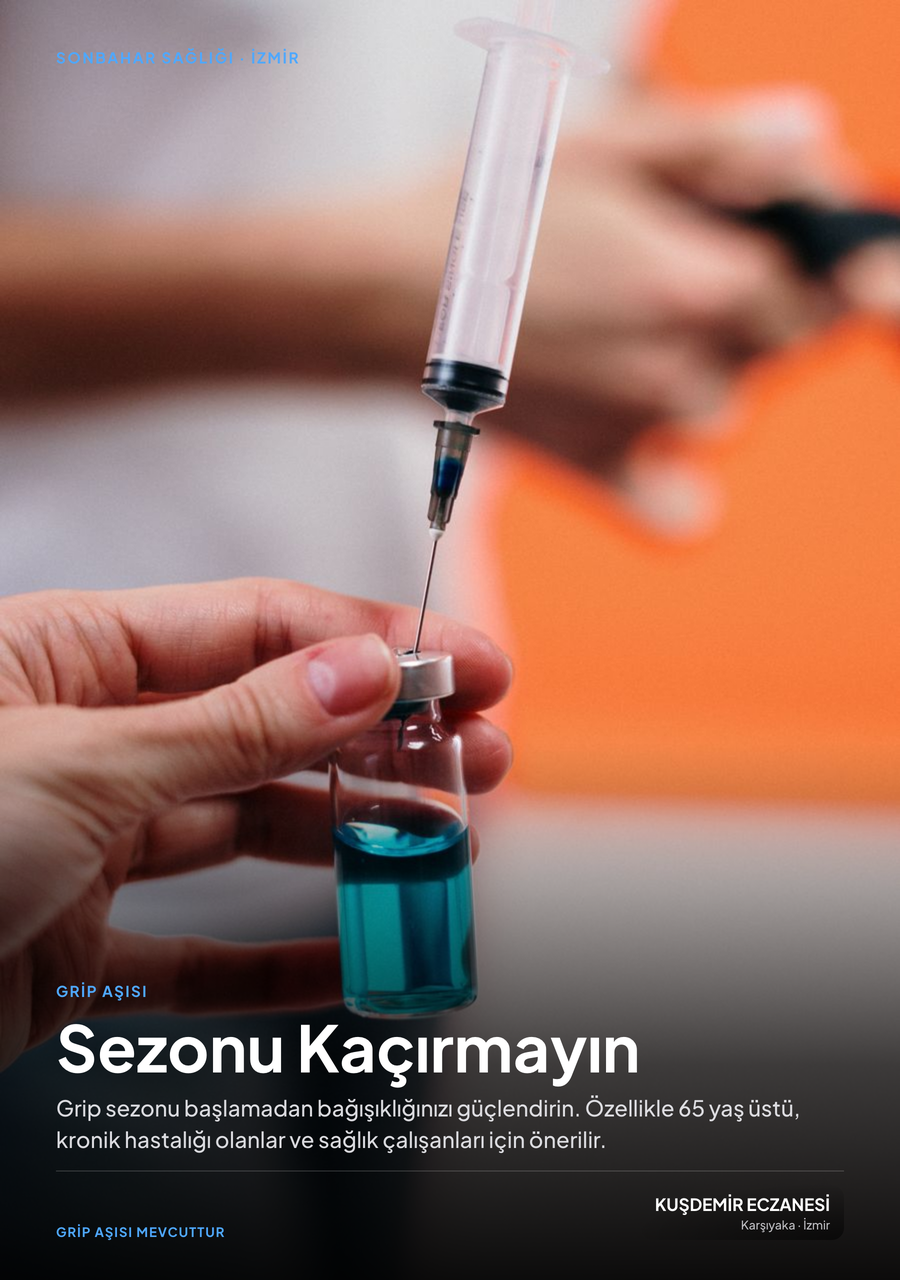
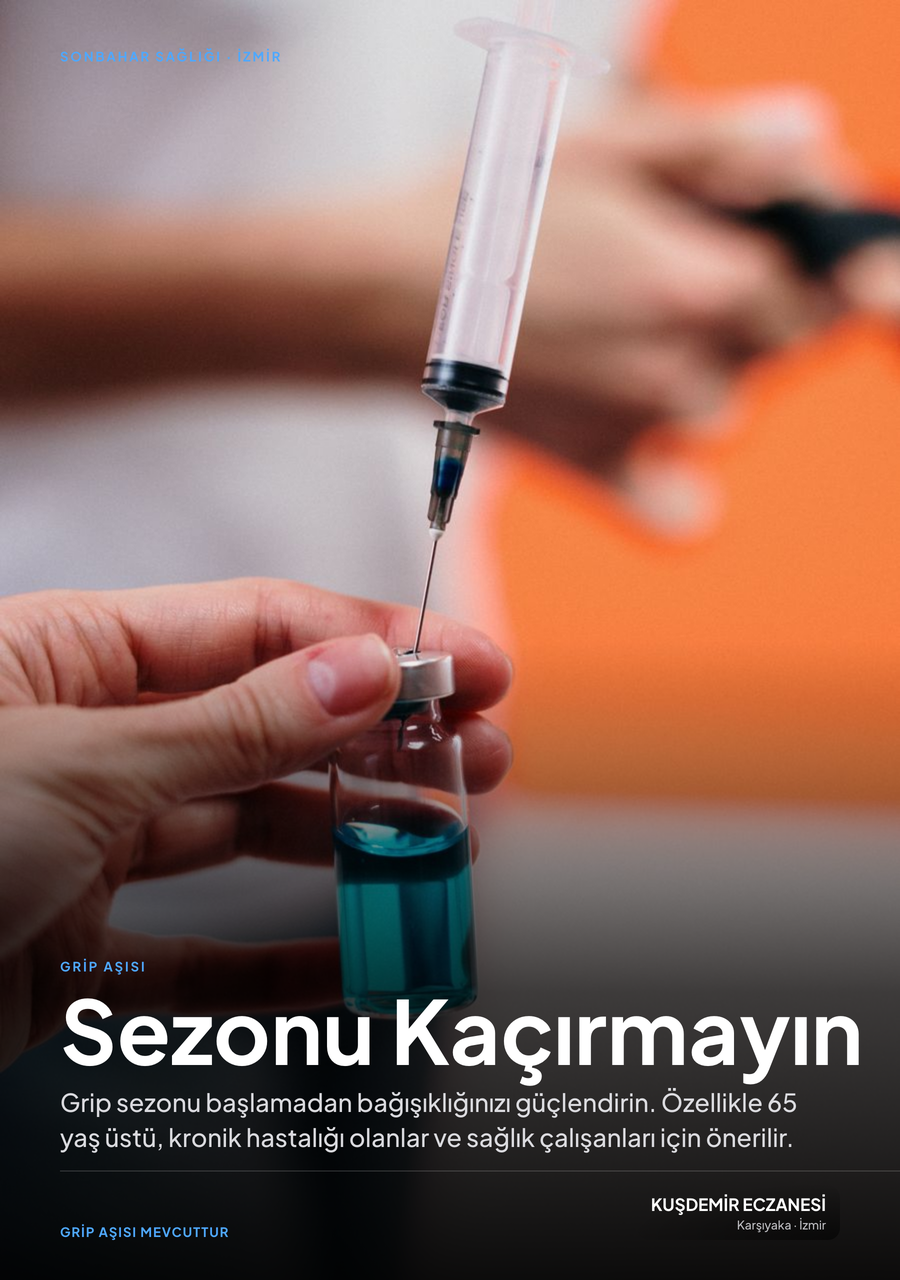
generator düzeltmeleri, font ve gradient fix

diff --git a/generate_ads.py b/generate_ads.py
@@ -228,25 +228,32 @@ def build_slide_html(slide, size, font_face_css, font_scale=1.0):
                 satır sayısı aynı kalsın diye satır yüksekliği/max-width de orantılı ayarlanır).
     """
     width, height = size
+    is_full = height >= 900
     accent = ACCENT_COLORS.get(slide["out"], DEFAULT_ACCENT)
     photo_src = photo_data_uri(slide["photo"])
 
-    title_size = round(64 * font_scale, 1)
-    body_size = round(22 * font_scale, 1)
-    category_size = round(15 * font_scale, 1)
-    tag_size = round(15 * font_scale, 1)
+    if is_full:
+        title_size, title_weight, title_line_height = 88, 800, 1.02
+        body_size, body_weight, body_line_height = 25, 500, 1.4
+        category_size, tag_size, letter_spacing = 13, 13, "2px"
+        pad_left = 60
+    else:
+        title_size, title_weight, title_line_height = 38, 800, 1.05
+        body_size, body_weight, body_line_height = 17, 500, 1.3
+        category_size, tag_size, letter_spacing = 10, 10, "1px"
+        pad_left = 24
+
     footer_left_size = round(13 * font_scale, 1)
     brand_size = round(17 * font_scale, 1)
     sub_size = round(12 * font_scale, 1)
 
-    pad_h = round(56 * font_scale, 1)
     pad_top = round(48 * font_scale, 1)
     pad_bottom = round(40 * font_scale, 1)
     gap = round(10 * font_scale, 1)
 
-    # Alt koyu taban fotoğrafın alt %35-45'i; yarım boy düşük olduğu için
-    # oransal olarak biraz daha yüksek bir yüzdeye ihtiyaç duyar (metin bloğu sığsın diye).
-    scrim_height_pct = 42 if height >= 900 else 78
+    # Alt koyu taban fotoğrafın alt kısmı; büyütülmüş başlık/body daha fazla
+    # dikey yer kapladığı için bant da buna göre daha yüksek tutuluyor.
+    scrim_height_pct = 50 if is_full else 82
 
     html_content = f"""<!DOCTYPE html>
 <html>
@@ -269,33 +276,36 @@ body {{
     object-fit: cover; object-position: {slide['crop_focus']};
 }}
 .top-category {{
-    position: absolute; top: {pad_top}px; left: {pad_h}px;
-    font-weight: 600; font-size: {category_size}px; letter-spacing: 0.12em;
-    color: {accent};
+    position: absolute; top: {pad_top}px; left: {pad_left}px;
+    font-weight: 600; font-size: {category_size}px; letter-spacing: {letter_spacing};
+    color: {accent}; text-align: left;
     text-rendering: optimizeLegibility; -webkit-font-smoothing: antialiased;
 }}
 .bottom-scrim {{
     position: absolute; left: 0; right: 0; bottom: 0; height: {scrim_height_pct}%;
-    background: linear-gradient(to top, rgba(0,0,0,0.95) 0%, rgba(0,0,0,0.75) 40%, rgba(0,0,0,0) 100%);
+    background: linear-gradient(to top, rgba(0,0,0,0.95) 0%, rgba(0,0,0,0.75) 45%, rgba(0,0,0,0) 100%);
 }}
 .bottom-content {{
     position: absolute; left: 0; right: 0; bottom: 0;
-    padding: 0 {pad_h}px {pad_bottom}px;
+    padding: 0 0 {pad_bottom}px {pad_left}px;
 }}
 .tag {{
-    display: inline-block; font-weight: 600; font-size: {tag_size}px; letter-spacing: 0.1em;
-    color: {accent}; margin-bottom: {gap}px;
+    display: inline-block; font-weight: 600; font-size: {tag_size}px; letter-spacing: {letter_spacing};
+    color: {accent}; margin-bottom: {gap}px; text-align: left;
     text-rendering: optimizeLegibility; -webkit-font-smoothing: antialiased;
 }}
 .title {{
-    font-weight: 700; font-size: {title_size}px; line-height: 1.12; color: #ffffff;
-    margin-bottom: {gap}px;
+    font-weight: {title_weight}; font-size: {title_size}px; line-height: {title_line_height}; color: #ffffff;
+    width: 100%; max-width: 100%; text-align: left;
+    white-space: normal; word-wrap: normal; overflow-wrap: break-word;
+    margin: 0 0 {gap}px 0;
     text-rendering: optimizeLegibility; -webkit-font-smoothing: antialiased;
 }}
 .body {{
-    font-weight: 500; font-size: {body_size}px; line-height: 1.42; color: rgba(235,235,240,0.92);
-    display: -webkit-box; -webkit-line-clamp: 2; -webkit-box-orient: vertical; overflow: hidden;
-    margin-bottom: {gap * 1.6}px;
+    font-weight: {body_weight}; font-size: {body_size}px; line-height: {body_line_height}; color: rgba(235,235,240,0.92);
+    width: 100%; max-width: 90%; text-align: left;
+    display: -webkit-box; -webkit-line-clamp: 3; -webkit-box-orient: vertical; overflow: hidden;
+    margin: 0 0 {gap * 1.6}px 0;
     text-rendering: optimizeLegibility; -webkit-font-smoothing: antialiased;
 }}
 .divider {{
@@ -303,6 +313,7 @@ body {{
 }}
 .bottom-row {{
     display: flex; align-items: flex-end; justify-content: space-between;
+    padding-right: {pad_left}px;
 }}
 .footer-left {{
     font-weight: 600; font-size: {footer_left_size}px; letter-spacing: 0.08em; color: {accent};

diff --git a/main.py b/main.py
@@ -936,15 +936,15 @@ class ModernCorporateEczaneApp(QMainWindow):
         rows_layout.setContentsMargins(0, 0, 0, 0)
         rows_layout.setSpacing(18)
 
-        phone_row, _ = self.create_info_row("icons/phone.svg", "📞", phone, self.colors['accent_blue'])
+        phone_row, _ = self.create_info_row("icons/phone.svg", "📞", phone, self.colors['text_primary'])
         rows_layout.addWidget(phone_row)
 
         # ADRES
-        address_row, _ = self.create_info_row("icons/mappin.svg", "📍", address, self.colors['accent_red'], wrap=True)
+        address_row, _ = self.create_info_row("icons/mappin.svg", "📍", address, self.colors['text_primary'], wrap=True)
         rows_layout.addWidget(address_row)
 
         # MESAFE
-        distance_row, self._distance_row_label = self.create_info_row("icons/navigation.svg", "🚗", "Mesafe: Hesaplanıyor...", self.colors['accent_green'])
+        distance_row, self._distance_row_label = self.create_info_row("icons/navigation.svg", "🚗", "Mesafe: Hesaplanıyor...", self.colors['text_primary'])
         rows_layout.addWidget(distance_row)
 
         self.info_widget_layout.addWidget(rows_container)
